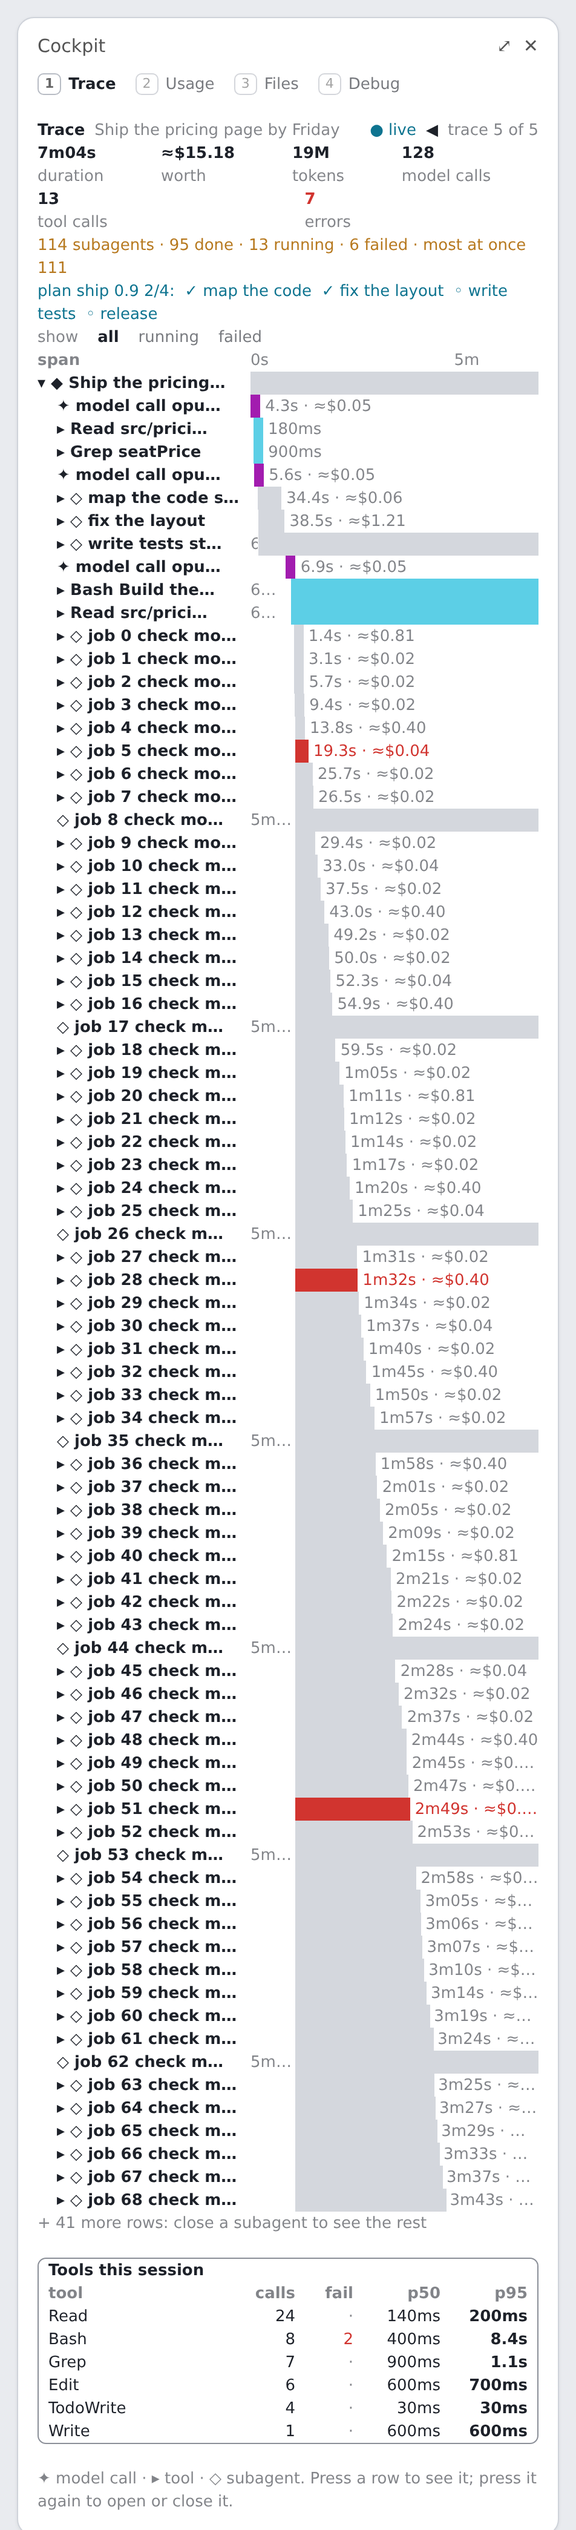
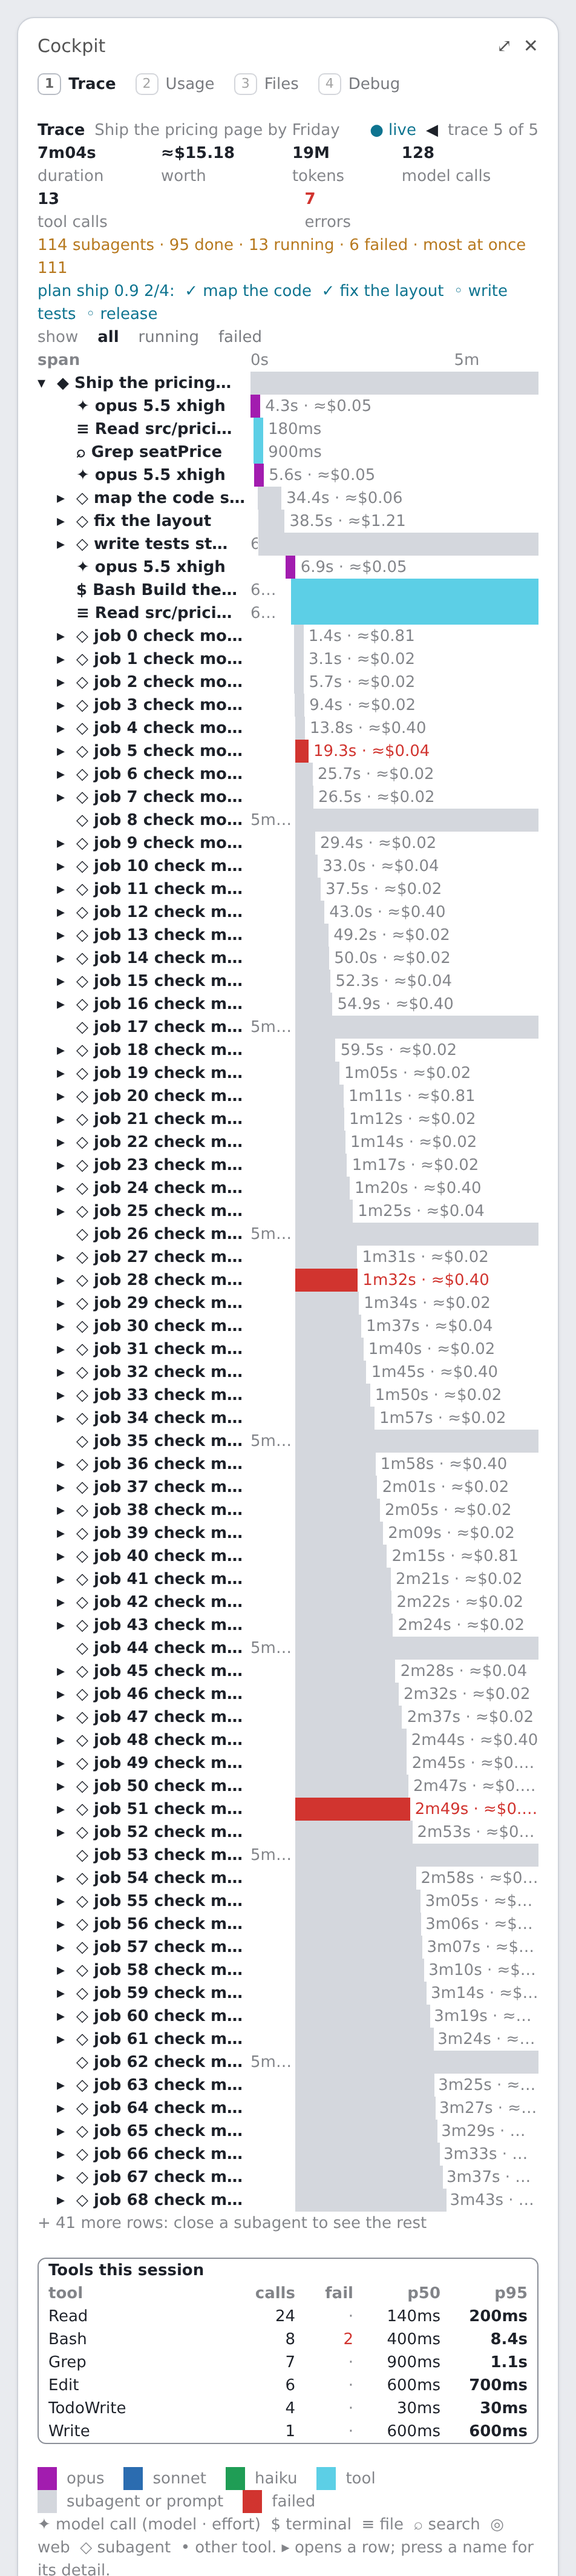
cockpit 0.16.1: trace rows fold with one press, glyph per kind of tool, model calls coloured by model with effort, legend, detail opens under the pressed row, clean prompt titles

Changed region(s): [[0.0609, 0.0311, 0.9443, 1.0], [0.2437, 0.0311, 0.4569, 0.0622], [0.6397, 0.0311, 0.7616, 0.0622]]

diff --git a/lib/views.js b/lib/views.js
@@ -273,8 +273,21 @@ function debugTab(Box, Text, S, now) {
 // One row per span: a label column (a Button: press to select, press a parent to open or close it) and a track where
 // the bar is three flex boxes (the gap before it, the bar, the rest) sized in permille of the trace's length. No widths
 // are estimated, so the same tree lines up on the terminal and on Desktop.
-const GLYPH = { turn: '◆', agent: '◇', llm: '✦', tool: '▸' }
-const BAR = { turn: 'gray', agent: 'gray', llm: 'magenta', tool: 'cyan' }
+// A glyph per kind of work, so a terminal command, a file, a search and a subagent read apart at a glance.
+const GLYPH = { turn: '◆', agent: '◇', llm: '✦' }
+const TOOL_GLYPH = [[/^(Bash|BashOutput|KillShell|Monitor)$/, '$'], [/^(Read|Write|Edit|MultiEdit|NotebookEdit)$/, '≡'], [/^(Grep|Glob|WebSearch|ToolSearch)$/, '⌕'], [/^WebFetch$/, '◎'], [/^Agent$/, '◇']]
+const glyphOf = (sp) => GLYPH[sp.k] || (TOOL_GLYPH.find(([re]) => re.test(sp.n)) || [, '•'])[1]
+// Model calls are coloured by model; the legend under the list says which is which.
+const MODEL_COLORS = [[/opus/, 'magenta', 'opus'], [/sonnet/, 'blue', 'sonnet'], [/haiku/, 'green', 'haiku'], [/./, 'yellow', 'other model']]
+const modelColor = (m) => MODEL_COLORS.find(([re]) => re.test(String(m || '').toLowerCase()))[1]
+const BAR = { turn: 'gray', agent: 'gray', tool: 'cyan' }
+const barColor = (sp) => (sp.st === 'err' ? 'red' : sp.k === 'llm' ? modelColor(sp.m) : BAR[sp.k])
+// A prompt's text as a title: the engine wraps deliveries and pastes in tags; a subagent's hand-back says so.
+const titleOf = (t) => {
+  const s = String(t || '')
+  if (/^<agent-message/.test(s)) return 'woken by a subagent: ' + s.replace(/<[^>]*>/g, ' ').replace(/\[Subagent hand-back\]/, '').replace(/\s+/g, ' ').trim()
+  return s.replace(/<[^>]*>/g, ' ').replace(/\s+/g, ' ').trim()
+}
 const KIND = { turn: 'prompt', agent: 'subagent', llm: 'model call', tool: 'tool call' }
 const STATE = { run: 'running', ok: 'done', err: 'failed', abort: 'stopped' }
 const TICKS = [1, 2, 5, 10, 15, 30, 60, 120, 300, 600, 900, 1800, 3600, 7200].map((s) => s * 1000)
@@ -284,13 +297,13 @@ const tickLabel = (ms) => (ms < 60000 ? ms / 1000 + 's' : Math.floor(ms / 60000)
 const cut = (s, n) => (n <= 0 ? '' : s.length > n ? s.slice(0, Math.max(0, n - 1)) + '…' : s)
 
 function spanName(S, sp) {
-  if (sp.k === 'turn') return [sp.n || (sp.p ? 'woken by its subagents' : 'continued'), '']
+  if (sp.k === 'turn') return [titleOf(sp.n) || (sp.p ? 'woken by its subagents' : 'continued'), '']
   if (sp.k === 'agent') {
     const a = S.agents[sp.a]
     const step = a && a.stepTotal ? 'step ' + a.stepDone + '/' + a.stepTotal : ''
     return [sp.n || 'subagent', [step, sp.d, sp.m && shortModel(sp.m)].filter(Boolean).join(' · ')]
   }
-  if (sp.k === 'llm') return ['model call', sp.m ? shortModel(sp.m) : '']
+  if (sp.k === 'llm') return [sp.m ? shortModel(sp.m) : 'model', sp.ef !== undefined && sp.ef !== null ? String(sp.ef) : '']
   const d = sp.d && sp.d.startsWith('/') ? showPath(S.cwd, sp.d).t : sp.d || ''
   return [String(sp.n).replace(/^mcp__[^_]+(?:_[^_]+)*?__/, ''), d.replace(/\s+/g, ' ')]
 }
@@ -311,7 +324,7 @@ function traceTab(Box, Text, S, now, cols, Button, ctl = { open: {} }) {
   const isOpen = (s) => ctl.open[s.id] ?? (s.k === 'turn' || (s.k === 'agent' && agents <= 4 && (kids[s.id] || []).length <= 12))
   const live = all.some((s) => s.st === 'run')
   const errs = all.filter((s) => s.st === 'err').length
-  const L = cols >= 90 ? 40 : 22 // the label column
+  const L = Math.max(22, Math.min(64, Math.round(cols * 0.42))) // the label column grows with the pane
 
   // Header: what the trace was, where it stands, paging between traces.
   const status = live ? ['● live', 'cyan'] : root.st === 'abort' ? ['stopped', 'yellow'] : errs ? ['done, ' + errs + ' failed', 'red'] : ['done', 'green']
@@ -330,7 +343,7 @@ function traceTab(Box, Text, S, now, cols, Button, ctl = { open: {} }) {
   const head = Box({
     flexDirection: 'row',
     columnGap: 1,
-    children: [T(Text, 'Trace', { bold: true }), Box({ flexGrow: 1, width: 0, overflow: 'hidden', children: [T(Text, root.n || 'continued', { dim: true })] }), T(Text, status[0], { color: status[1] }), ...nav],
+    children: [T(Text, 'Trace', { bold: true }), Box({ flexGrow: 1, width: 0, overflow: 'hidden', children: [T(Text, titleOf(root.n) || 'continued', { dim: true })] }), T(Text, status[0], { color: status[1] }), ...nav],
   })
   const llm = all.filter((s) => s.k === 'llm')
   const cost = llm.reduce((a, s) => a + (s.cost || 0), 0)
@@ -360,19 +373,21 @@ function traceTab(Box, Text, S, now, cols, Button, ctl = { open: {} }) {
     const ch = (kids[sp.id] || []).filter((k) => !want || keep[k.id])
     const open = ch.length > 0 && isOpen(sp)
     const [name, detail] = spanName(S, sp)
-    const lead = ch.length ? (open ? '▾ ' : '▸ ') : '  '
-    const room = L - 1 - 2 * depth - lead.length - 2
+    const room = L - 1 - 2 * depth - 2 - 2
     const n = cut(name, room)
     const d = cut(detail, room - n.length - 1)
     const sel = ctl.sel === sp.id
-    const label = [T(Text, lead, { dim: true }), T(Text, GLYPH[sp.k] + ' ', { color: sp.st === 'err' ? 'red' : BAR[sp.k] === 'gray' ? undefined : BAR[sp.k] }), T(Text, n, { bold: sp.k === 'turn' || sp.k === 'agent' || sel, color: sel ? 'blue' : undefined })]
+    const gc = barColor(sp)
+    const label = [T(Text, glyphOf(sp) + ' ', { color: gc === 'gray' ? undefined : gc, bold: true }), T(Text, n, { bold: sp.k === 'turn' || sp.k === 'agent' || sel, color: sel ? 'blue' : undefined })]
     if (d) label.push(T(Text, ' ' + d, { dim: true }))
-    const press = () => ctl.press(sp.id, open, ch.length > 0)
-    const cell = Box({ width: L, flexShrink: 0, overflow: 'hidden', paddingLeft: 2 * depth, children: [Button ? Button({ key: 'sp-' + sp.id, plain: true, onPress: press, children: label }) : Box({ flexDirection: 'row', children: label })] })
+    // The fold mark is its own button (one press opens or closes); the name selects the row.
+    const fold = ch.length && Button ? Button({ key: 'fold-' + sp.id, label: open ? '▾' : '▸', plain: true, onPress: () => ctl.toggle(sp.id, open) }) : T(Text, ' ')
+    const nameBtn = Button ? Button({ key: 'sp-' + sp.id, plain: true, onPress: () => ctl.press(sp.id), children: label }) : Box({ flexDirection: 'row', children: label })
+    const cell = Box({ width: L, flexShrink: 0, overflow: 'hidden', flexDirection: 'row', columnGap: 1, paddingLeft: 2 * depth, children: [Box({ width: 1, flexShrink: 0, children: [fold] }), nameBtn] })
 
     const t1 = sp.k === 'llm' || sp.k === 'tool' ? sp.t1 ?? now : end[sp.id]
     const dur = t1 - sp.t0
-    const color = sp.st === 'err' ? 'red' : BAR[sp.k]
+    const color = barColor(sp)
     const c = sp.k === 'llm' ? sp.cost || 0 : sp.k === 'agent' || sp.k === 'turn' ? all.filter((x) => x.k === 'llm' && x.t0 >= sp.t0 && isUnder(x, sp.id)).reduce((a, x) => a + (x.cost || 0), 0) : 0
     const text = fmtMs(dur) + (sp.st === 'run' ? '…' : '') + (money(S, c) ? ' · ' + money(S, c) : '')
     const tag = [T(Text, text, { dim: sp.st !== 'err', color: sp.st === 'err' ? 'red' : undefined })]
@@ -384,6 +399,8 @@ function traceTab(Box, Text, S, now, cols, Button, ctl = { open: {} }) {
     const barBox = Box({ width: 0, flexGrow: w, minWidth: 1, height: 1, backgroundColor: color })
     const rest = Box({ width: 0, flexGrow: Math.max(0, 1000 - a - w), overflow: 'hidden', flexDirection: 'row', children: left ? [] : [T(Text, ' '), ...tag] })
     rows.push(Box({ flexDirection: 'row', height: 1, children: [cell, Box({ flexDirection: 'row', flexGrow: 1, width: 0, minWidth: 10, height: 1, children: [gap, barBox, rest] })] }))
+    // The detail opens right under the row that was pressed, where the eye already is.
+    if (sel) rows.push(Box({ paddingLeft: 2 * depth + 2, children: [spanCard(Box, Text, S, sp, root, end, kids, now, Button && Button({ key: 'card-close', label: '✕ close', plain: true, onPress: () => ctl.press(null) }))] }))
     if (open) for (const k of ch) row(k, depth + 1)
   }
   const parentOf = Object.fromEntries(all.map((s) => [s.id, s.p]))
@@ -411,27 +428,41 @@ function traceTab(Box, Text, S, now, cols, Button, ctl = { open: {} }) {
     extra.push(T(Text, 'plan ' + pl.title + ' ' + pl.done + '/' + pl.total + ':  ' + tasks, { color: pl.done === pl.total ? 'green' : 'cyan', wrap: 'wrap' }))
   }
   const out = [head, kpi, ...extra, Box({ flexDirection: 'row', columnGap: 2, children: [T(Text, 'show', { dim: true }), ...filters] }), axis, ...rows, T(Text, ' ')]
-  const sel = ctl.sel && S.spans[ctl.sel] && S.spans[ctl.sel].r === root.id ? S.spans[ctl.sel] : null
-  if (sel) out.push(spanCard(Box, Text, S, sel, root, end, kids, now))
   out.push(toolStats(Box, Text, S, cols))
-  out.push(note(Text, '✦ model call · ▸ tool · ◇ subagent. Press a row to see it; press it again to open or close it.'))
+  out.push(legend(Box, Text, all))
   return out
 }
 
+// What the colours and glyphs mean: a swatch per bar colour present in this trace, then the glyphs.
+function legend(Box, Text, all) {
+  const models = MODEL_COLORS.filter(([re]) => all.some((s) => s.k === 'llm' && re.test(String(s.m || '').toLowerCase()) && modelColor(s.m) === MODEL_COLORS.find(([r]) => r === re)[1]))
+  const items = [...models.map(([, c, name]) => [c, name]), ['cyan', 'tool'], ['gray', 'subagent or prompt'], ['red', 'failed']]
+  const sw = items.map(([c, name]) => Box({ flexDirection: 'row', columnGap: 1, children: [Box({ width: 2, height: 1, backgroundColor: c }), T(Text, name, { dim: true })] }))
+  return Box({
+    flexDirection: 'column',
+    children: [
+      Box({ flexDirection: 'row', flexWrap: 'wrap', columnGap: 2, children: sw }),
+      note(Text, '✦ model call (model · effort)  $ terminal  ≡ file  ⌕ search  ◎ web  ◇ subagent  • other tool. ▸ opens a row; press a name for its detail.'),
+    ],
+  })
+}
+
 // The selected span in full: what it was, how long, what it cost, its input, and its error or answer.
-function spanCard(Box, Text, S, sp, root, end, kids, now) {
+function spanCard(Box, Text, S, sp, root, end, kids, now, close) {
   const kv = (label, value, o = {}) => trow(Box, Text, [{ t: label, w: 9, dim: true }, { t: value, w: 12, flex: true, wrap: 'wrap', ...o }])
   const [name, detail] = spanName(S, sp)
   const t1 = sp.k === 'llm' || sp.k === 'tool' ? sp.t1 ?? now : end[sp.id]
   const rows = [kv('what', KIND[sp.k] + ' · ' + STATE[sp.st], { color: sp.st === 'err' ? 'red' : sp.st === 'run' ? 'cyan' : undefined }), kv('duration', fmtMs(t1 - sp.t0)), kv('started', '+' + fmtMs(sp.t0 - root.t0))]
   if (sp.m) rows.push(kv('model', shortModel(sp.m)))
   if (sp.tok) rows.push(kv('tokens', fmtTok(sp.tok) + (sp.cost ? ' · ' + money(S, sp.cost) : '')))
+  if (sp.ef !== undefined && sp.ef !== null) rows.push(kv('effort', String(sp.ef)))
   if (sp.k === 'agent' || sp.k === 'turn') rows.push(kv('spans', String((kids[sp.id] || []).length)))
   if (sp.d || detail) rows.push(kv('input', sp.d || detail))
   if (sp.err) rows.push(kv('error', sp.err, { color: 'red' }))
   const a = sp.k === 'agent' && S.agents[sp.a]
   if (a && a.stepTotal) rows.push(kv('progress', 'step ' + a.stepDone + '/' + a.stepTotal + (a.stepNote ? ' · ' + a.stepNote : '')))
   if (sp.res) rows.push(kv('answer', sp.res))
+  if (close) rows.push(close)
   return card(Box, Text, name, rows)
 }
 

diff --git a/lib/model.js b/lib/model.js
@@ -50,7 +50,7 @@ export function newState(ttlMin = 5) {
     peakRunning: 0, // most subagents running at once
     peakTools: 0, // most tool calls running at once (main loop and subagents together)
     // The trace (Trace tab): id -> { id, p (parent id), r (root id), k: 'turn'|'llm'|'tool'|'agent', n (name), d (detail),
-    // m (model), a (agentId), t0, t1 (null while running), st: 'run'|'ok'|'err'|'abort', tok, cost, err, res }. Insertion ordered.
+    // m (model), ef (effort, model calls), a (agentId), t0, t1 (null while running), st: 'run'|'ok'|'err'|'abort', tok, cost, err, res }. Insertion ordered.
     spans: {},
     trace: null, // root span of the latest trace: a main-loop prompt, plus the turns its running subagents woke
     openTurn: {}, // 'main' -> the main loop's open turn span
@@ -540,7 +540,7 @@ const stepId = (e) => 'l:' + (e.agentId || 'main') + ':' + e.turnId + ':' + e.in
 
 // A model request starts: its span runs until the response is in (onStepEnd closes it).
 export function onStepStart(S, e, t) {
-  return addSpan(S, { id: stepId(e), p: parentFor(S, e.agentId, t), k: 'llm', n: 'model call', m: e.model, a: e.agentId, t0: t, t1: null, st: 'run' })
+  return addSpan(S, { id: stepId(e), p: parentFor(S, e.agentId, t), k: 'llm', n: 'model call', m: e.model, ef: e.effort, a: e.agentId, t0: t, t1: null, st: 'run' })
 }
 
 // The one argument that says what a tool call is about: a path, a description, a command, a pattern.

diff --git a/hooks/register.js b/hooks/register.js
@@ -359,13 +359,15 @@ export function register(on) {
     const { Box, Text, Button, Svg } = $.ui.resolve(e)
     const now = await $.clock.now()
     const redraw = () => $.ui.invalidate('ui.render')
-    // What the Trace tab's buttons do: pick a span (pressing a closed parent opens it; pressing the selected one toggles it),
-    // and page between traces.
+    // What the Trace tab's buttons do: select a span (null closes its card), open or close a parent, page between traces.
     const ctl = {
       ...view,
-      press: (id, isOpen, isParent) => {
-        if (isParent && (view.sel === id || isOpen === false)) view.open = { ...view.open, [id]: !isOpen }
+      press: (id) => {
         view.sel = id
+        redraw()
+      },
+      toggle: (id, isOpen) => {
+        view.open = { ...view.open, [id]: !isOpen }
         redraw()
       },
       show: (rootId) => {

diff --git a/tests/cockpit.test.ts b/tests/cockpit.test.ts
@@ -411,10 +411,9 @@ test('the Trace tab draws the waterfall on both surfaces; rows select, open and 
     expect(await ui.find({ type: 'Text', text: /tool call · failed/ })).toBeDefined()
     // close the subagent: its tool row goes; open it again: it is back
     const agentKey = 'sp-a:' + r.agentId
-    await ui.press({ key: agentKey })
-    await ui.press({ key: agentKey })
+    await ui.press({ key: 'fold-a:' + r.agentId })
     expect(await ui.find({ type: 'Text', text: /coupon/ })).toBeUndefined()
-    await ui.press({ key: agentKey })
+    await ui.press({ key: 'fold-a:' + r.agentId })
     expect(await ui.find({ type: 'Text', text: /coupon/ })).toBeDefined()
     // show failed only: the Bash stays, the subagent's Grep goes; back to all
     await ui.press({ key: 'filter-failed' })
